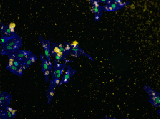
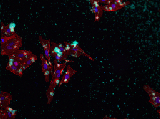
SSDM-802: channel colors changed in SimpleImageDropboxTest
SVN: 32411

diff --git a/screening/sourceTest/core-plugins/SimpleImageDropboxTest/1/dss/drop-boxes/SimpleImageDropboxTest-drop-box/hcs-dropbox.py b/screening/sourceTest/core-plugins/SimpleImageDropboxTest/1/dss/drop-boxes/SimpleImageDropboxTest-drop-box/hcs-dropbox.py
@@ -70,7 +70,7 @@ class MyImageDataSetConfig(SimpleImageDataConfig):
         return image_tokens
     
     def getChannelColor(self, channelCode):
-        dict = { "DAPI" : ChannelColor.GREEN, "CY3" : ChannelColor.BLUE }
+        dict = { "GFP" : ChannelColor.GREEN, "DAPI" : ChannelColor.BLUE, "CY3" : ChannelColor.RED }
         if channelCode in dict:
             return dict[channelCode]
         else:
